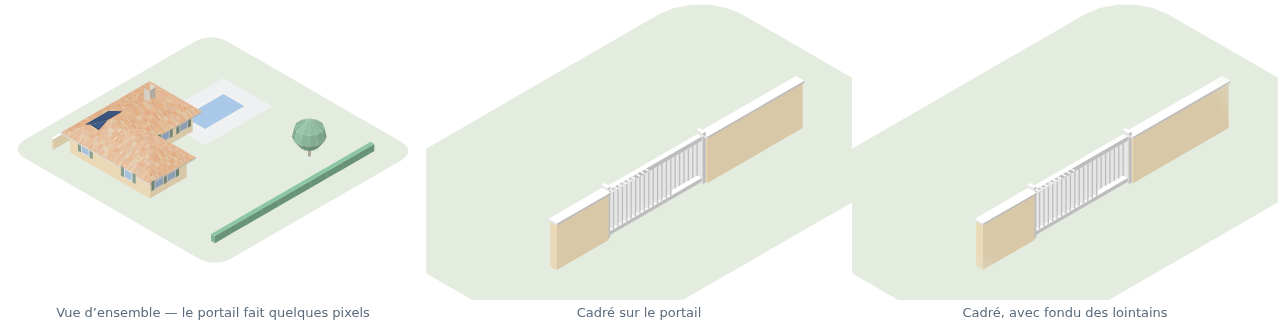
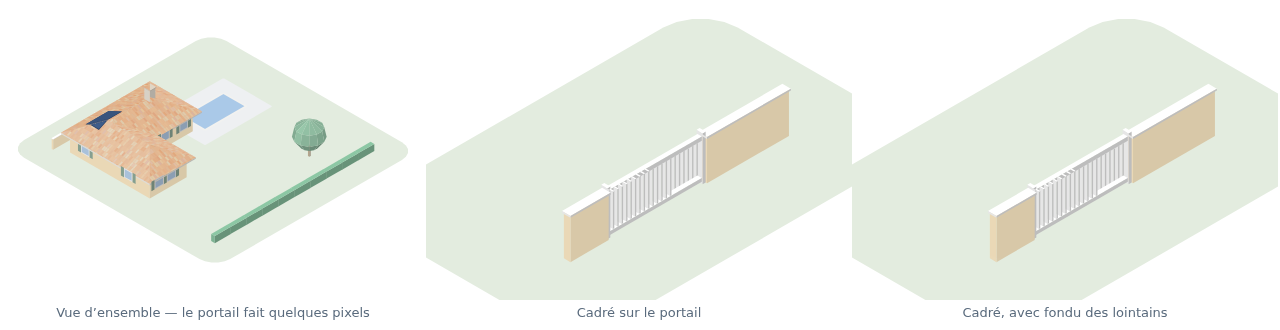
Fait de la marge de cadrage de l'air, et non de la pelouse
Trois défauts dans la même capture, tous du même côté : le cadrage produisait
une image à moitié vide de pelouse, avec la maison tranchée par le bord.

**La marge grossissait le sol.** Elle est censée être l'air que la caméra
laisse autour de la zone ; comptée dans le sol, une marge de 5,50 m ajoutait
onze mètres de pelouse vide autour de ce qu'on voulait montrer. `focusRect`
est désormais la zone seule — ce qu'on garde, ce qu'on coupe, jusqu'où va le
sol — et `focusFrame` la zone plus sa marge, pour la caméra seule.

**Un corps effleurant la zone était gardé.** Une maison dont le mur longe une
zone tracée devant elle la touche d'un centimètre ; gardée pour si peu, elle
était dessinée en entier puis tranchée par le bord de l'image. Un corps n'est
gardé que s'il s'y tient, au sens où le centre d'une de ses cases y tombe.

**« Masquer le reste » disparaît.** Décochée, l'option ne recadrait pas : elle
laissait l'image se faire couper par son propre bord — un toit tranché net
d'un côté, une pelouse arrondie de l'autre. C'est exactement le résultat que
tout ce mécanisme existe pour éviter, et le laisser accessible en un clic
n'aidait personne. Les fichiers qui portent le réglage l'ouvrent sans lui.

Deux tests ajoutés, chacun vérifié en rétablissant le comportement d'avant.

141 tests.

diff --git a/tests/run.js b/tests/run.js
@@ -11,7 +11,7 @@ import {
   VIEWPOINTS, viewpointLabel, rotateDir, depthOf, facingOf, DEFAULT_PITCH,
   normaliseYaw, ROLL_RANGE,
 } from '../src/core/iso.js';
-import { focusModel, focusRect, focusPoints } from '../src/core/focus.js';
+import { focusModel, focusRect, focusFrame, focusPoints } from '../src/core/focus.js';
 import {
   defaultModel, emptyModel, normalise, cellSet, wallTop, withCellSize, fmtMetres,
   makeBuilding, buildingOfEdge,
@@ -2053,11 +2053,13 @@ check('le cadrage encadre la zone en tenant compte de la hauteur', () => {
     buildings: [makeBuilding({ cells: [...rectCells(0, 0, 5, 4)] })],
   });
   const built = renderScene(m, { width: 400, height: 300 });
-  const focus = { enabled: true, x: 0, y: 0, w: 6, d: 5, margin: 1, hide: true, vignette: 0 };
+  const focus = { enabled: true, x: 0, y: 0, w: 6, d: 5, margin: 1, vignette: 0 };
   const pts = focusPoints(focus, built.merged);
   const zMax = Math.max(...pts.map((p) => p[2]));
   if (zMax < 2) return `hauteur encadrée ${zMax} m — le toit sortirait du cadre`;
-  const [x0, y0, x1, y1] = focusRect(focus);
+  // Against the frame, not the zone: the margin is air the camera leaves, and
+  // the points it fits on include it.
+  const [x0, y0, x1, y1] = focusFrame(focus);
   const inside = (p) => p[0] >= x0 - 1e-9 && p[0] <= x1 + 1e-9 && p[1] >= y0 - 1e-9 && p[1] <= y1 + 1e-9;
   return pts.every(inside) || 'un point encadré tombe hors de la zone';
 });
@@ -2106,6 +2108,46 @@ check('le sol est un tapis à coins arrondis, pas un rectangle', () => {
   if (ground.length !== 1) return `${ground.length} faces de sol`;
   const n = ground[0].loops[0].length;
   return n > 8 || `${n} sommets : le sol est resté rectangulaire`;
+});
+
+check('la marge du cadrage est de l’air, pas de la pelouse', () => {
+  // Reported in use: a generous margin filled the picture with empty lawn.
+  // It is what the camera leaves round the zone, not part of the ground.
+  const base = {
+    ...emptyModel(),
+    buildings: [makeBuilding({ cells: [...rectCells(0, 0, 4, 3)] })],
+    ground: { enabled: true, material: 'grass', margin: 0 },
+  };
+  const zone = { enabled: true, x: 20, y: 20, w: 5, d: 4, vignette: 0 };
+  const span = (margin) => {
+    const g = mergeCoplanar(buildMesh(focusModel(normalise({
+      ...base, focus: { ...zone, margin },
+    }))).mesh.tris).find((f) => f.group === 'ground');
+    const xs = g.loops[0].map((p) => p[0]);
+    return Math.max(...xs) - Math.min(...xs);
+  };
+  const tight = span(1), wide = span(8);
+  return near(tight, wide, 1e-9) || `sol de ${tight.toFixed(1)} m à ${wide.toFixed(1)} m selon la marge`;
+});
+
+check('un corps qui effleure la zone n’est pas gardé', () => {
+  // A house whose wall runs along the edge of a zone drawn in front of it
+  // grazes it by a centimetre. Kept for that, it was drawn whole and then
+  // sliced by the picture's own border.
+  const b = makeBuilding({ cells: [...rectCells(0, 0, 9, 6)] });
+  const grazing = normalise({
+    ...emptyModel(), buildings: [b],
+    focus: { enabled: true, x: 9.9, y: 2, w: 6, d: 4, margin: 1, vignette: 0 },
+  });
+  if (focusModel(grazing).buildings.some((x) => x.cells.length)) {
+    return 'le corps effleuré est encore là';
+  }
+  const standing = normalise({
+    ...emptyModel(), buildings: [b],
+    focus: { enabled: true, x: 6, y: 2, w: 6, d: 4, margin: 1, vignette: 0 },
+  });
+  return focusModel(standing).buildings.some((x) => x.cells.length)
+    || 'un corps réellement dans la zone a été retiré';
 });
 
 check('sous cadrage, le sol suit le cadre et non la parcelle', () => {

diff --git a/src/core/focus.js b/src/core/focus.js
@@ -10,8 +10,13 @@
  * isometric view, distance on the ground is not distance on screen. A shed at
  * the far end of the garden projects *upward*, straight into a frame drawn
  * around the front gate. Tightening the camera brings it closer rather than
- * removing it. Hence `hide`: what falls outside the rectangle is taken out of
- * the model before anything is built.
+ * removing it. So what falls outside the rectangle is taken out of the model
+ * before anything is built.
+ *
+ * That used to be optional. It is not any more: leaving it off produced an
+ * image cropped by its own border — a roof sliced by a straight machine cut on
+ * one side, a soft rounded lawn on the other — which is the one result this
+ * whole mechanism exists to avoid.
  *
  * Extended items are cut at the frame; compact ones are kept whole or dropped
  * on where their centre falls. That is a reversal, and the reason is worth
@@ -26,8 +31,21 @@
 import { parseKey } from './grid.js';
 import { propFootprint, cellSizeOf, DEFAULT_FOCUS } from './model.js';
 
-/** The rectangle actually used, margin included: [x0, y0, x1, y1] in metres. */
+/**
+ * The zone itself: [x0, y0, x1, y1] in metres.
+ *
+ * What is kept, what is cut, and how far the ground reaches. The margin is
+ * deliberately *not* in it — the margin is air the camera leaves around the
+ * zone, and folding it in here grew the lawn instead, so a generous margin
+ * filled the picture with empty ground rather than framing what was in it.
+ */
 export function focusRect(focus) {
+  const f = { ...DEFAULT_FOCUS, ...(focus || {}) };
+  return [f.x, f.y, f.x + f.w, f.y + f.d];
+}
+
+/** The zone plus its margin: what the camera frames. */
+export function focusFrame(focus) {
   const f = { ...DEFAULT_FOCUS, ...(focus || {}) };
   const m = Math.max(0, f.margin ?? 0);
   return [f.x - m, f.y - m, f.x + f.w + m, f.y + f.d + m];
@@ -35,11 +53,19 @@ export function focusRect(focus) {
 
 const overlaps = (a, r) => a[0] < r[2] && a[2] > r[0] && a[1] < r[3] && a[3] > r[1];
 
-/** Does any cell of this building fall inside the frame? */
+/**
+ * Does this building actually stand in the zone?
+ *
+ * By cell centres, not by overlap. A house whose east wall runs along the edge
+ * of a zone drawn around the gate in front of it grazes that zone by a
+ * centimetre — and being kept for it, was drawn whole and then sliced by the
+ * picture's border. Standing in the zone means having ground inside it.
+ */
 function buildingInside(b, rect, cs) {
   for (const k of b.cells) {
     const [i, j] = parseKey(k);
-    if (overlaps([i * cs, j * cs, (i + 1) * cs, (j + 1) * cs], rect)) return true;
+    const cx = (i + 0.5) * cs, cy = (j + 0.5) * cs;
+    if (cx >= rect[0] && cx <= rect[2] && cy >= rect[1] && cy <= rect[3]) return true;
   }
   return false;
 }
@@ -100,7 +126,7 @@ export function focusModel(model) {
 
 function compute(model) {
   const f = model.focus;
-  if (!f?.enabled || !f.hide) return model;
+  if (!f?.enabled) return model;
   const rect = focusRect(f);
   const cs = cellSizeOf(model);
 
@@ -134,7 +160,7 @@ function compute(model) {
  * beheaded.
  */
 export function focusPoints(focus, faces) {
-  const [x0, y0, x1, y1] = focusRect(focus);
+  const [x0, y0, x1, y1] = focusFrame(focus);
   const pts = [];
   let zMax = 0;
   for (const f of faces) {

diff --git a/src/ui/plan.js b/src/ui/plan.js
@@ -8,7 +8,7 @@
 
 import { key, parseKey, boundaryEdges, boundaryRuns } from '../core/grid.js';
 import { cellSet, cellSizeOf, fmtMetres, buildingCells, setBuildingCells } from '../core/model.js';
-import { focusRect } from '../core/focus.js';
+import { focusFrame } from '../core/focus.js';
 import {
   OPENING_DEFAULTS, ROOF_ITEM_DEFAULTS, PROP_DEFAULTS, CENTRED_KINDS, LINEAR_KINDS,
   placeOpening, placeRoofItem, placeProp, placeRun,
@@ -62,7 +62,7 @@ export class PlanView {
       i1 = Math.max(i1, px + pw); j1 = Math.max(j1, py + pd);
     }
     if (m.focus?.enabled) {
-      const [fx0, fy0, fx1, fy1] = focusRect(m.focus);
+      const [fx0, fy0, fx1, fy1] = focusFrame(m.focus);
       i0 = Math.min(i0, fx0); j0 = Math.min(j0, fy0);
       i1 = Math.max(i1, fx1); j1 = Math.max(j1, fy1);
     }
@@ -243,7 +243,7 @@ export class PlanView {
     // what will end up in the picture is visible rather than guessed at.
     if (m.focus?.enabled) {
       const f = m.focus;
-      const [mx0, my0, mx1, my1] = focusRect(f);
+      const [mx0, my0, mx1, my1] = focusFrame(f);
       const box = (x0, y0, x1, y1, cls) => {
         const a = this.toPx(x0, y1);
         gFrame.appendChild(el('rect', {

diff --git a/src/ui/panels.js b/src/ui/panels.js
@@ -560,15 +560,16 @@ export class Inspector {
       field('Marge', slider(f.margin, {
         min: 0, max: 10, step: 0.25, format: (v) => `${fmtMetres(v)} m`,
         onInput: (v) => this.setIn('focus', { margin: v }, 'focus'),
-      }), 'air laissé autour de la zone'),
+      }), 'air laissé autour de la zone, sans étendre le terrain'),
       field('Fondu des lointains', slider(f.vignette, {
         min: 0, max: 0.8, step: 0.02,
         format: (v) => (v < 0.01 ? 'net' : `${Math.round(v * 100)} %`),
         onInput: (v) => this.setIn('focus', { vignette: v }, 'focus'),
       }), 'estompe ce qui s’éloigne du centre — le terrain n’est pas touché'),
-      field('Masquer le reste', toggle(f.hide, (v) => this.setIn('focus', { hide: v })),
-        'sinon le reste est simplement hors champ — et un objet lointain peut malgré tout se projeter dans l’image'),
     );
+    s.appendChild(h('p', 'field-hint',
+      'Ce qui est hors zone est retiré, et ce qui la traverse y est coupé : '
+      + 'sans cela l’image serait tranchée par son propre bord.'));
     s.appendChild(this.exportButton());
     return s.panel;
   }

diff --git a/src/core/model.js b/src/core/model.js
@@ -40,7 +40,6 @@ export const DEFAULT_FOCUS = {
   enabled: false,
   x: 0, y: 0, w: 12, d: 10,
   margin: 1.5,
-  hide: true,     // drop what falls outside instead of merely cropping it
   vignette: 0.3,  // 0 = hard edge; otherwise how much of the frame fades out
 };
 
@@ -219,6 +218,8 @@ function normaliseFocus(input, base) {
   f.vignette = Math.min(0.9, num(f.vignette, 0, base.vignette));
   f.x = Number.isFinite(f.x) ? f.x : base.x;
   f.y = Number.isFinite(f.y) ? f.y : base.y;
+  // Older files carry `hide`, which is no longer a choice.
+  delete f.hide;
   return f;
 }
 

diff --git a/README.md b/README.md
@@ -119,9 +119,14 @@ au lieu de l'écarter. D'où le retrait pur et simple.
 
 Ce qui traverse le cadre y est **coupé** ; ce qui est compact — un arbre, un
 portail, une voiture — est gardé entier ou retiré selon que son centre tombe
-dedans. Sous cadrage, le sol suit le cadre et non la parcelle : un jardin de
-quatre-vingts mètres recadré sur le portail remplissait sinon l'image de
-pelouse, ce que le cadrage était précisément censé éviter.
+dedans. Un corps de bâtiment n'est gardé que s'il **se tient** dans la zone,
+au sens où le centre d'une de ses cases y tombe : une maison dont le mur longe
+une zone tracée devant elle ne l'effleure que d'un centimètre, et être gardée
+pour si peu la faisait dessiner en entier puis trancher par le bord de l'image.
+
+Le sol suit la zone, et non la parcelle ni la marge. La **marge** est de l'air
+que la caméra laisse autour de la zone : la compter dans le sol y ajoutait de
+la pelouse vide au lieu de cadrer ce qu'il y avait dedans.
 
 Le **fondu des lointains** adoucit ensuite la coupe. Il s'applique à l'image
 composée et non à chaque face — estomper les faces une par une rendrait la
